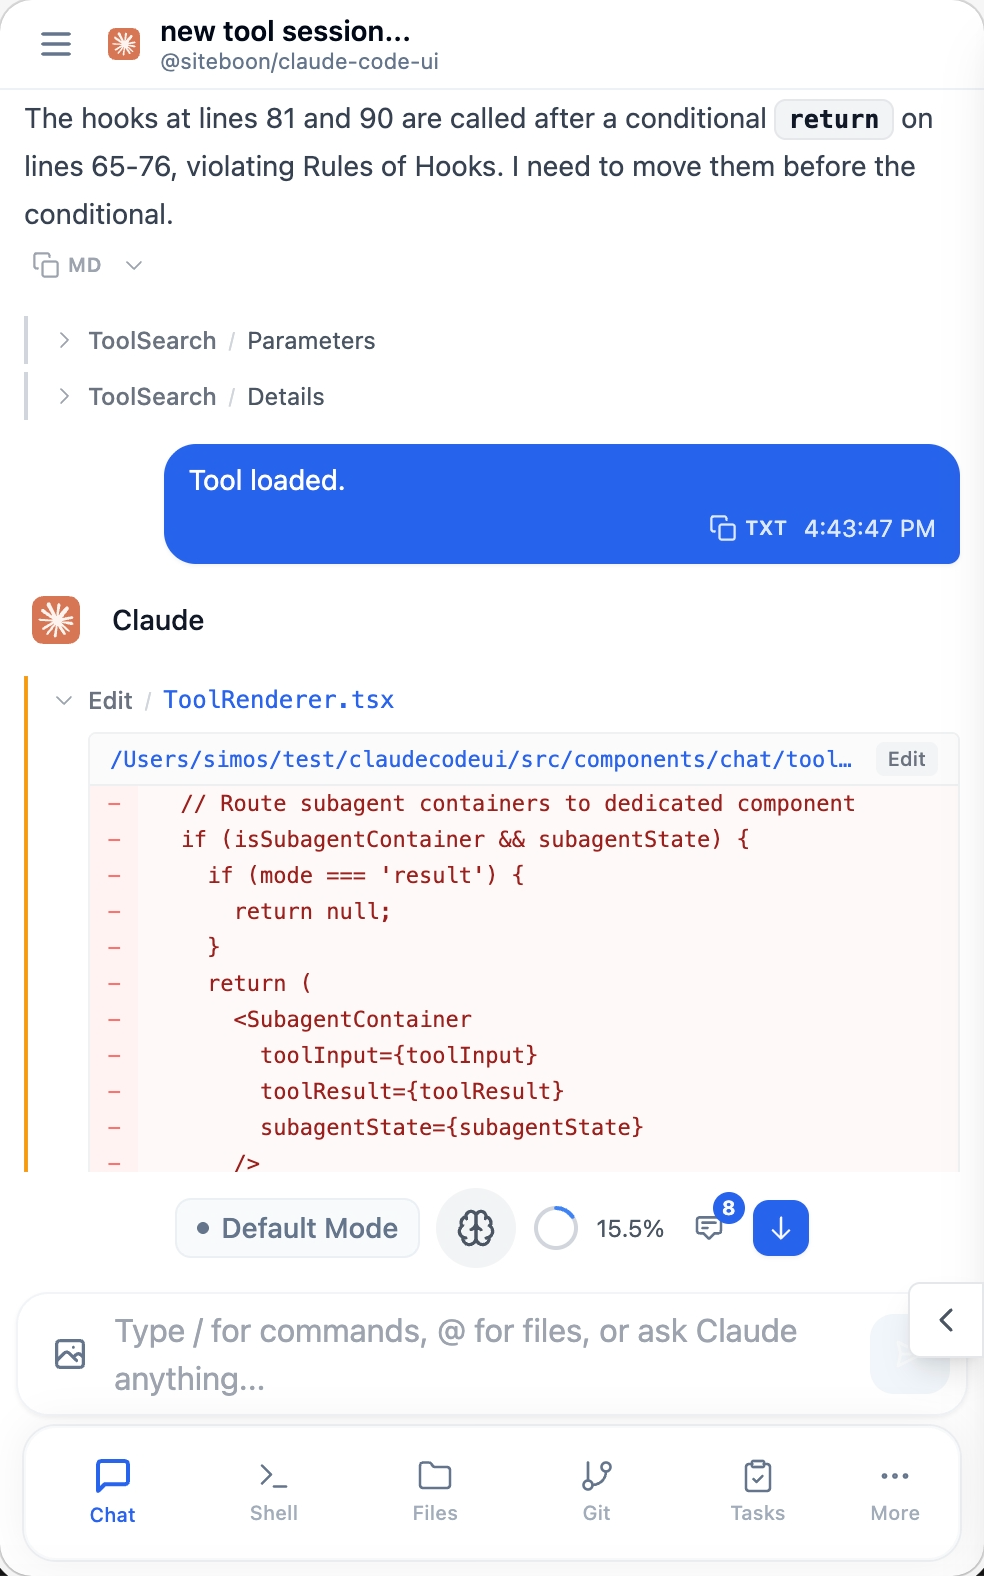
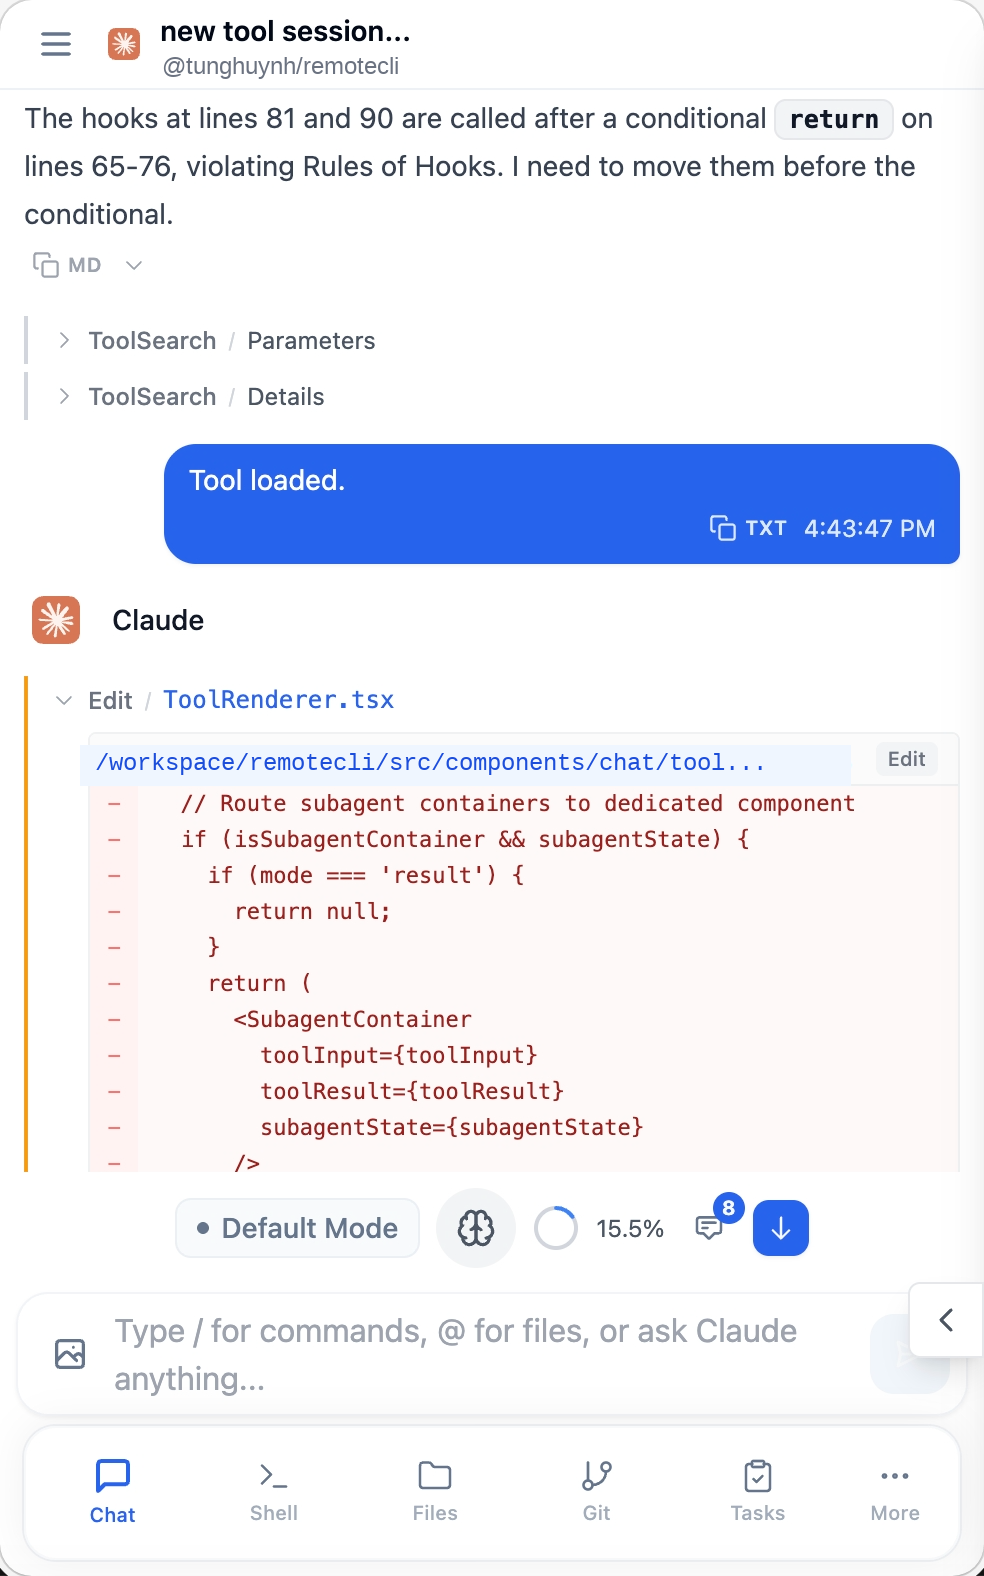
docs: overhaul README and update screenshots for RemoteCLI branding
- Rewrite README.md completely for RemoteCLI with modern branding and badges
- Add comprehensive sections for zero C++ setup, Quick Start, LAN/mobile access,
  CLI commands, and environment variables
- Update .env.example with remotecli command examples
- Update public screenshot assets (desktop, mobile, CLI selection, tools modal) to
  match RemoteCLI styling and npm package scope @tunghuynh/remotecli

Changed region(s): [[0.0915, 0.4664, 0.8537, 0.4975], [0.1524, 0.0311, 0.4268, 0.0622]]

diff --git a/README.md b/README.md
@@ -1,10 +1,33 @@
 <div align="center">
- <img src="public/logo.svg" alt="RemoteCLI" width="64" height="64">
- <h1>RemoteCLI</h1>
- <p>A modern web-based remote UI for <a href="https://docs.anthropic.com/en/docs/claude-code">Claude Code</a>, <a href="https://docs.cursor.com/en/cli/overview">Cursor CLI</a>, and <a href="https://developers.openai.com/codex">Codex</a>.<br>Access and manage your active coding agent sessions from any device, anywhere.</p>
+  <img src="public/logo.svg" alt="RemoteCLI Logo" width="80" height="80">
+  <h1>RemoteCLI</h1>
+  <p><b>A modern web-based remote UI for Claude Code, Cursor CLI, and OpenAI Codex.</b><br>
+  Access, manage, and collaborate with your coding agents from any device, anywhere.</p>
+
+  <p>
+    <a href="https://www.npmjs.com/package/@tunghuynh/remotecli"><img src="https://img.shields.io/npm/v/@tunghuynh/remotecli.svg?style=flat-square&color=2563eb" alt="npm version"></a>
+    <a href="https://www.npmjs.com/package/@tunghuynh/remotecli"><img src="https://img.shields.io/npm/dm/@tunghuynh/remotecli.svg?style=flat-square&color=blue" alt="npm downloads"></a>
+    <a href="https://nodejs.org"><img src="https://img.shields.io/badge/node-%3E%3D22.5.0-brightgreen.svg?style=flat-square" alt="Node.js Version"></a>
+    <a href="LICENSE"><img src="https://img.shields.io/badge/license-AGPL--3.0-blue.svg?style=flat-square" alt="License"></a>
+    <img src="https://img.shields.io/badge/platform-Windows%20%7C%20macOS%20%7C%20Linux-lightgrey.svg?style=flat-square" alt="Platform">
+  </p>
 </div>
 
-<div align="right"><i><b>English</b> · <a href="./docs/README.ru.md">Русский</a> · <a href="./docs/README.de.md">Deutsch</a> · <a href="./docs/README.ko.md">한국어</a> · <a href="./docs/README.zh-CN.md">简体中文</a> · <a href="./docs/README.zh-TW.md">繁體中文</a> · <a href="./docs/README.ja.md">日本語</a> · <a href="./docs/README.tr.md">Türkçe</a> · <a href="./docs/README.id.md">Bahasa Indonesia</a></i></div>
+---
+
+## Overview
+
+**RemoteCLI** provides an intuitive, responsive web interface for local AI coding CLI tools like [Claude Code](https://docs.anthropic.com/en/docs/claude-code), [Cursor CLI](https://docs.cursor.com/en/cli/overview), and [OpenAI Codex](https://developers.openai.com/codex).
+
+Instead of being tethered to a single terminal window, RemoteCLI lets you monitor agent executions, edit files, inspect diffs, approve permissions, and run shell commands from any desktop browser, laptop, tablet, or mobile phone.
+
+### ✨ Highlights
+
+- ⚡ **Zero C++ Build Tools Needed**: Powered entirely by Node.js built-in `node:sqlite` and pure-JavaScript `bcryptjs`. No Visual Studio C++ Build Tools on Windows, no Xcode on macOS, and no `node-gyp` compilation errors.
+- 🔄 **Direct CLI & Config Sync**: Reads and writes directly to your local configuration (`~/.claude`). Your existing projects, session history, and MCP tools are discovered automatically.
+- 📱 **Mobile & PWA Ready**: Fully responsive mobile UI with touch navigation, virtual quick-keys, and iOS/Android home screen installation support.
+- 🤖 **Multi-Agent Support**: Switch between Claude Code, Cursor CLI, and Codex within the same unified dashboard.
+- 🔒 **100% Local & Private**: All data, sessions, and databases remain strictly on your own hardware. No external telemetry or cloud lock-in.
 
 ---
 
@@ -15,218 +38,177 @@
 <table>
 <tr>
 <td align="center">
-<h3>Desktop View</h3>
-<img src="public/screenshots/desktop-main.png" alt="Desktop Interface" width="400">
+<h3>Desktop Interface</h3>
+<img src="public/screenshots/desktop-main.png" alt="Desktop Interface" width="480">
 <br>
-<em>Main interface showing project overview and chat</em>
+<em>Full workspace with project explorer, active sessions, interactive chat, and tool execution logs</em>
 </td>
 <td align="center">
 <h3>Mobile Experience</h3>
-<img src="public/screenshots/mobile-chat.png" alt="Mobile Interface" width="250">
+<img src="public/screenshots/mobile-chat.png" alt="Mobile Interface" width="280">
 <br>
-<em>Responsive mobile design with touch navigation</em>
+<em>Responsive mobile design with touch controls, live diff views, and tool details</em>
 </td>
 </tr>
 <tr>
-<td align="center" colspan="2">
-<h3>CLI Selection</h3>
+<td align="center">
+<h3>CLI & Model Selection</h3>
 <img src="public/screenshots/cli-selection.png" alt="CLI Selection" width="400">
 <br>
-<em>Select between Claude Code, Cursor CLI and Codex</em>
+<em>Switch seamlessly between Claude Code, Cursor CLI, and Codex</em>
+</td>
+<td align="center">
+<h3>Safe Tool Permission Controls</h3>
+<img src="public/screenshots/tools-modal.png" alt="Tools Settings Modal" width="400">
+<br>
+<em>Fine-grained control over allowed and disallowed agent tools</em>
 </td>
 </tr>
 </table>
 
-
-
 </div>
 
-## Features
-
-- **Responsive Design** - Works seamlessly across desktop, tablet, and mobile so you can also use Agents from mobile 
-- **Interactive Chat Interface** - Built-in chat interface for seamless communication with the Agents
-- **Integrated Shell Terminal** - Direct access to the Agents CLI through built-in shell functionality
-- **File Explorer** - Interactive file tree with syntax highlighting and live editing
-- **Git Explorer** - View, stage and commit your changes. You can also switch branches 
-- **Browser Use** - Open browser sessions for web research, testing, and agent-driven browser tasks
-- **Session Management** - Resume conversations, manage multiple sessions, and track history
-- **Plugin System** - Extend RemoteCLI with custom plugins — add new tabs, backend services, and integrations.
-- **TaskMaster AI Integration** *(Optional)* - Advanced project management with AI-powered task planning, PRD parsing, and workflow automation
-- **Model Compatibility** - Works with Claude and GPT model families (the full list of supported models is available at runtime via `GET /api/providers/:provider/models`)
-
+---
 
 ## Quick Start
 
-### npm
+### Run Instantly with npx
 
-Try RemoteCLI instantly with **npx** (requires **Node.js** v22+):
+No installation required. Requires **Node.js >= 22.5.0**:
 
 ```bash
 npx @tunghuynh/remotecli
 ```
 
-Or install **globally** for regular use:
+### Global Installation (Recommended)
+
+Install globally via npm for regular use:
 
 ```bash
 npm install -g @tunghuynh/remotecli
+```
+
+Then start RemoteCLI anytime with:
+
+```bash
 remotecli
 ```
 
-Open `http://localhost:3001` — all your existing sessions are discovered automatically.
+Open your browser at **`http://localhost:3001`**. All your active projects and existing agent sessions will be ready immediately.
 
-### Docker Sandboxes (Experimental)
+---
 
-Run agents in isolated sandboxes with hypervisor-level isolation. Starts Claude Code by default. Requires the [`sbx` CLI](https://docs.docker.com/ai/sandboxes/get-started/).
+## Access From Mobile or LAN
 
-```bash
-npx @tunghuynh/remotecli@latest sandbox ~/my-project
+To use RemoteCLI from your smartphone, tablet, or another laptop on your local network:
+
+1. Start RemoteCLI on your host machine:
+   ```bash
+   remotecli
+   ```
+2. Find your machine's local IP address (e.g. `192.168.1.50`).
+3. Open `http://<YOUR_LOCAL_IP>:3001` in your mobile browser.
+4. *(Optional)* Tap **"Add to Home Screen"** in Safari / Chrome for a standalone full-screen mobile app experience.
+
+> **Tip:** You can also use secure mesh networks like [Tailscale](https://tailscale.com/) or WireGuard to access your coding agents remotely from anywhere outside your local network.
+
+---
+
+## CLI Commands & Options
+
+```
+RemoteCLI - Command Line Tool
+
+Usage:
+  remotecli [command] [options]
+
+Commands:
+  start            Start the RemoteCLI server (default)
+  status           Show current configuration, paths, and database status
+  update           Check and update RemoteCLI to the latest version
+  version          Show installed package version
+  help             Show CLI help and usage information
+  sandbox          Manage Docker sandbox environments (experimental)
+  browser-use-mcp  Run Browser MCP stdio server
+
+Options:
+  -p, --port <port>        Set server port (default: 3001)
+  --database-path <path>   Set custom SQLite database path
+  -h, --help               Show this help information
+  -v, --version            Show version information
 ```
 
-Supports Claude Code and Codex. See the [sandbox docs](docker/) for setup and advanced options.
+### Examples
 
+```bash
+# Start on default port 3001
+remotecli
 
----
+# Start on a custom port
+remotecli --port 8080
 
-## Which option is right for you?
+# Inspect configuration and database storage location
+remotecli status
 
-CloudCLI UI is the open source UI layer that powers CloudCLI Cloud. You can self-host it on your own machine, run it in a Docker sandbox for isolation, or use CloudCLI Cloud for a fully managed environment.
+# Update to latest version
+remotecli update
+```
 
-| | Self-Hosted (npm) | Self-Hosted (Docker Sandbox) *(Experimental)* | CloudCLI Cloud |
-|---|---|---|---|
-| **Best for** | Local agent sessions on your own machine | Isolated agents with web/mobile IDE | Teams who want agents in the cloud |
-| **How you access it** | Browser via `[yourip]:port` | Browser via `localhost:port` | Browser, any IDE, REST API, n8n |
-| **Setup** | `npx @tunghuynh/remotecli` | `npx @tunghuynh/remotecli@latest sandbox ~/project` | No setup required |
-| **Isolation** | Runs on your host | Hypervisor-level sandbox (microVM) | Full cloud isolation |
-| **Machine needs to stay on** | Yes | Yes | No |
-| **Mobile access** | Any browser on your network | Any browser on your network | Any device |
-| **Desktop companion** | Optional. Choose Local CloudCLI | Optional. Choose Local CloudCLI | Optional. Opens cloud environments |
-| **Agents supported** | Claude Code, Cursor CLI, Codex | Claude Code, Codex | Claude Code, Cursor CLI, Codex |
-| **File explorer and Git** | Yes | Yes | Yes |
-| **MCP configuration** | Synced with `~/.claude` | Managed via UI | Managed via UI |
-| **REST API** | Yes | Yes | Yes |
-| **Team sharing** | No | No | Yes |
-| **Platform cost** | Free, open source | Free, open source | Starts at €7/month |
+### Environment Variables
 
-> All options use your own AI subscriptions (Claude, Cursor, etc.) — CloudCLI provides the environment, not the AI.
+| Variable | Description | Default |
+|---|---|---|
+| `SERVER_PORT` | Port the web server listens on | `3001` |
+| `DATABASE_PATH` | Path to the SQLite storage database | `~/.remotecli/data.db` (or application root) |
+| `CLAUDE_CLI_PATH` | Custom path to the Claude Code CLI binary | `claude` |
+| `CONTEXT_WINDOW` | Fallback context window token limit | `160000` |
 
 ---
 
-## Security & Tools Configuration
+## Features
 
-**🔒 Important Notice**: All Claude Code tools are **disabled by default**. This prevents potentially harmful operations from running automatically.
+### 🤖 Multi-Agent Orchestration
+Work with **Claude Code**, **Cursor CLI**, or **OpenAI Codex** within a single dashboard. RemoteCLI dynamically fetches available models at runtime, allowing you to choose the best model for your task.
 
-### Enabling Tools
+### 💬 Interactive Chat & Diff Inspection
+Real-time response streaming, syntax-highlighted code blocks, unified diff viewers, and collapsible tool executions give you complete transparency into what the agent is doing.
 
-To use Claude Code's full functionality, you'll need to manually enable tools:
+### 💻 Integrated Terminal (xterm.js)
+Open full terminal sessions directly in the browser to run builds, test suites, or git operations alongside your agent conversations.
 
-1. **Open Tools Settings** - Click the gear icon in the sidebar
-2. **Enable Selectively** - Turn on only the tools you need
-3. **Apply Settings** - Your preferences are saved locally
+### 📁 File & Git Explorer
+- **File Explorer**: Browse project directories, view file contents with syntax highlighting, and make quick edits.
+- **Git Integration**: View modified files, inspect side-by-side diffs, stage files, switch branches, and commit changes.
 
-<div align="center">
+### 🛡 Safe by Default Tool Permissions
+All agent tools (such as Bash, Write, Edit, Glob, Grep) can be inspected, allowed, or blocked through the **Tools Settings** modal. Prevent unintended destructive commands from running automatically.
 
-![Tools Settings Modal](public/screenshots/tools-modal.png)
-*Tools Settings interface - enable only what you need*
+### 🧩 Extensible Plugin System
+Add custom tabs with their own frontend components and backend services. Install community plugins or develop custom extensions for task queues, session intelligence, or custom dashboards.
 
-</div>
+---
 
-**Recommended approach**: Start with basic tools enabled and add more as needed. You can always adjust these settings later.
+## System Requirements
+
+- **Node.js**: `>= 22.5.0` (with built-in `node:sqlite` support)
+- **Operating System**: Windows 10/11, macOS, or Linux
+- **AI CLI**: At least one supported CLI installed on your machine:
+  - [Claude Code](https://docs.anthropic.com/en/docs/claude-code): `npm install -g @anthropic-ai/claude-code`
+  - [Cursor CLI](https://docs.cursor.com/en/cli/overview)
+  - [Codex](https://developers.openai.com/codex)
 
 ---
 
-## Plugins
+## Security & Privacy
 
-CloudCLI has a plugin system that lets you add custom tabs with their own frontend UI and optional Node.js backend. Install plugins from git repos directly in **Settings > Plugins**, or build your own.
-
-### Available Plugins
-
-| Plugin | Description |
-|---|---|
-| **[Project Stats](https://github.com/cloudcli-ai/cloudcli-plugin-starter)** | Shows file counts, lines of code, file-type breakdown, largest files, and recently modified files for your current project |
-| **[Web Terminal](https://github.com/cloudcli-ai/cloudcli-plugin-terminal)** | Full xterm.js terminal with multi-tab support |
-| **[CloudCLI Scheduler](https://github.com/grostim/cloudcli-cron)** | Create workspace-scoped scheduled prompts and execute them through a local CLI such as Codex or Claude Code |
-| **[PRISM CloudCLI](https://github.com/jakeefr/cloudcli-plugin-prism)** | Session intelligence for Claude Code inside CloudCLI, including token burn visibility |
-| **[Sessions](https://github.com/strykereye2/cloudcli-plugin-session-manager)** | View, manage, and kill active Claude Code sessions |
-| **[Token Cost Calculator](https://github.com/NightmareAway/cloudcli-plugin-token-cost-calculator)** | Calculate API costs from model prices and token usage, with preset model pricing support |
-| **[Task Queue](https://github.com/TadMSTR/cloudcli-plugin-task-queue)** | Task queue dashboard to view, filter, and launch agent tasks |
-| **[GitHub Issues Board](https://github.com/szmidtpiotr/claude-github-issue)** | Kanban board for GitHub Issues with bidirectional TaskMaster sync and /github-task CLI skill auto-install |
-
-### Build Your Own
-
-**[Plugin Starter Template →](https://github.com/cloudcli-ai/cloudcli-plugin-starter)** — fork this repo to create your own plugin. It includes a working example with frontend rendering, live context updates, and RPC communication to a backend server.
-
-### Private Repositories
-
-The server installs and updates plugins with `git clone` and `git pull`, using the git credentials of the operating-system user it runs as (for a systemd service, the unit's `User=`). The server cannot answer a password or passphrase prompt during an install, so set up credentials for that user before installing from a private repository:
-
-- **`https://` URLs:** configure a git credential helper, for example `gh auth login` followed by `gh auth setup-git`, or a token in `~/.git-credentials` with `git config --global credential.helper store`.
-- **`git@` URLs:** give that user an SSH key the git host accepts and that works without a prompt: either it has no passphrase, or it is loaded into an `ssh-agent` whose `SSH_AUTH_SOCK` the server process inherits. Also add the host to that user's `~/.ssh/known_hosts`, for example by running `ssh -T git@github.com` once as that user.
-
-Without credentials, an `https://` install fails with a message saying that the repository is private or does not exist. Most git hosts, GitHub included, answer the same way for both. If the host rejects the credentials (wrong, expired or revoked), or ssh cannot log in for a `git@` URL, the message says so.
-
----
-## FAQ
-
-<details>
-<summary>How is this different from Claude Code Remote Control?</summary>
-
-Claude Code Remote Control lets you send messages to a session already running in your local terminal. Your machine has to stay on, your terminal has to stay open, and sessions time out after roughly 10 minutes without a network connection.
-
-CloudCLI UI and CloudCLI Cloud extend Claude Code rather than sit alongside it — your MCP servers, permissions, settings, and sessions are the exact same ones Claude Code uses natively. Nothing is duplicated or managed separately.
-
-Here's what that means in practice:
-
-- **All your sessions, not just one** — CloudCLI UI auto-discovers every session from your `~/.claude` folder. Remote Control only exposes the single active session to make it available in the Claude mobile app.
-- **Your settings are your settings** — MCP servers, tool permissions, and project config you change in CloudCLI UI are written directly to your Claude Code config and take effect immediately, and vice versa.
-- **Works with more agents** — Claude Code, Cursor CLI and Codex, not just Claude Code.
-- **Full UI, not just a chat window** — file explorer, Git integration, MCP management, and a shell terminal are all built in.
-- **CloudCLI Cloud runs in the cloud** — close your laptop, the agent keeps running. No terminal to babysit, no machine to keep awake.
-
-</details>
-
-<details>
-<summary>Do I need to pay for an AI subscription separately?</summary>
-
-Yes. CloudCLI provides the environment, not the AI. You bring your own Claude, Cursor, or Codex subscription. CloudCLI Cloud starts at €7/month for the hosted environment on top of that.
-
-</details>
-
-<details>
-<summary>Can I use CloudCLI UI on my phone?</summary>
-
-Yes. For self-hosted, run the server on your machine and open `[yourip]:port` in any browser on your network. For CloudCLI Cloud, open it from any device — no VPN, no port forwarding, no setup. A native app is also in the works.
-
-</details>
-
-<details>
-<summary>Will changes I make in the UI affect my local Claude Code setup?</summary>
-
-Yes, for self-hosted. CloudCLI UI reads from and writes to the same `~/.claude` config that Claude Code uses natively. MCP servers you add via the UI show up in Claude Code immediately and vice versa.
-
-</details>
+- **Local Execution**: RemoteCLI runs as a local web service on your machine.
+- **Your Own Credentials**: RemoteCLI connects directly to your local CLI sessions; you use your own provider authentication.
+- **Permission Safety**: Tool execution permissions match your security preferences and can be toggled per session or globally.
 
 ---
 
 ## License
 
-GNU Affero General Public License v3.0 or later (AGPL-3.0-or-later) — see [LICENSE](LICENSE) for the full text, including additional terms under Section 7.
+This project is licensed under the [GNU Affero General Public License v3.0 or later (AGPL-3.0-or-later)](LICENSE).
 
-This project is open source and free to use, modify, and distribute under the AGPL-3.0-or-later license. If you modify this software and run it as a network service, you must make your modified source code available to users of that service.
-
-## Acknowledgments
-
-### Built With
-- **[Claude Code](https://docs.anthropic.com/en/docs/claude-code)** - Anthropic's official CLI
-- **[Cursor CLI](https://docs.cursor.com/en/cli/overview)** - Cursor's official CLI
-- **[Codex](https://developers.openai.com/codex)** - OpenAI Codex
-- **[React](https://react.dev/)** - User interface library
-- **[Vite](https://vitejs.dev/)** - Fast build tool and dev server
-- **[Tailwind CSS](https://tailwindcss.com/)** - Utility-first CSS framework
-- **[CodeMirror](https://codemirror.net/)** - Advanced code editor
-- **[TaskMaster AI](https://github.com/eyaltoledano/claude-task-master)** *(Optional)* - AI-powered project management and task planning
-
----
-
-<div align="center">
- <strong>Made with care for the Claude Code, Cursor and Codex community.</strong>
-</div>
+Author: **Tùng Huỳnh** ([@tunghuynh](https://github.com/tunghuynh))
